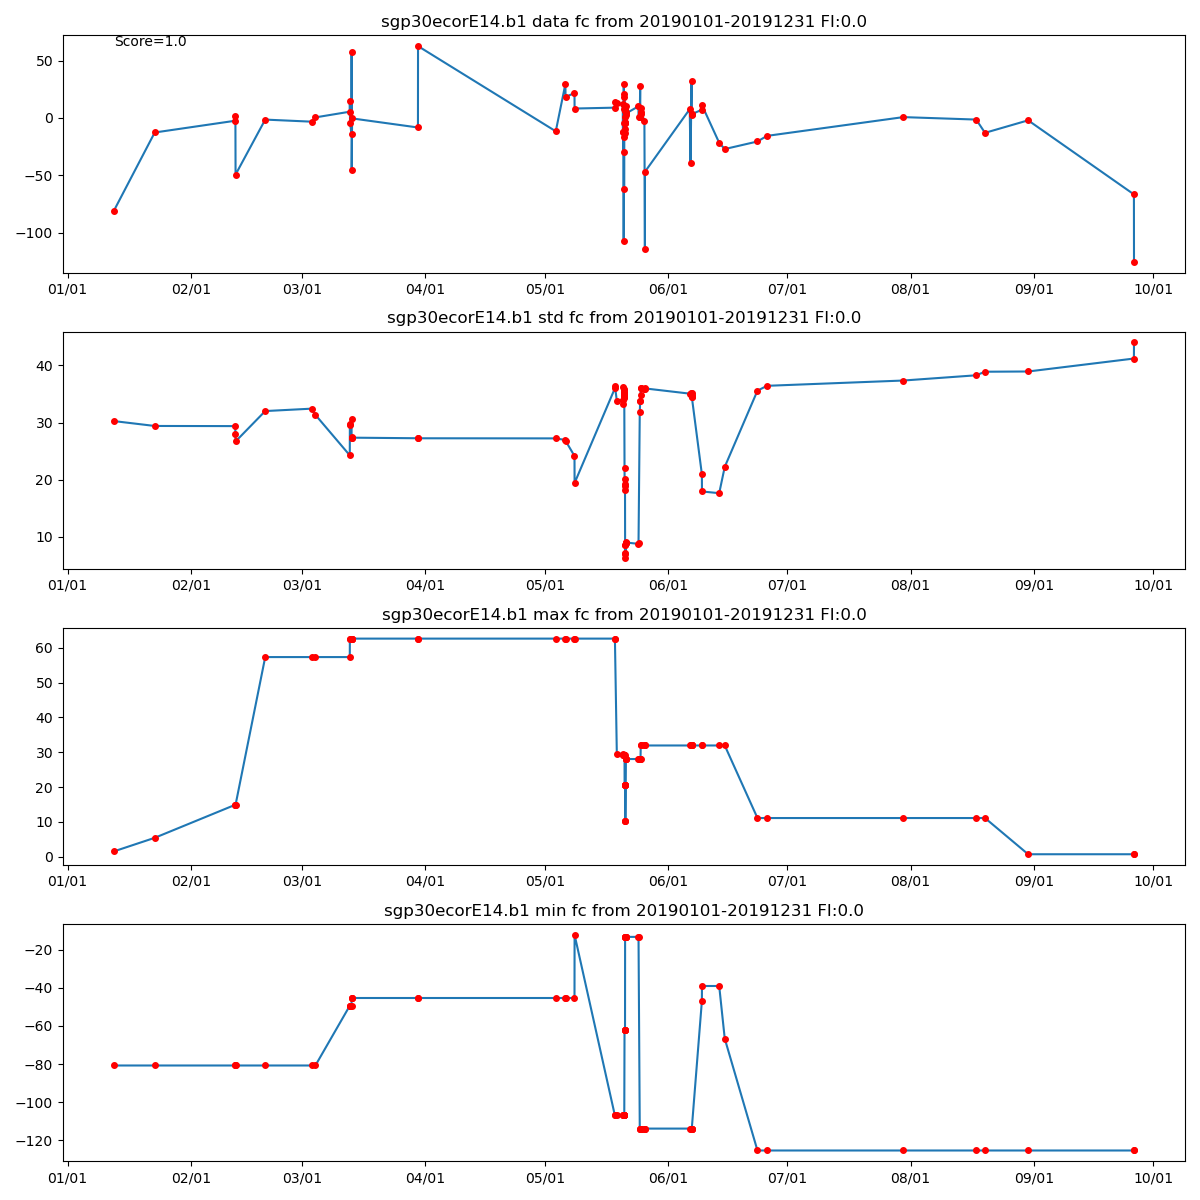
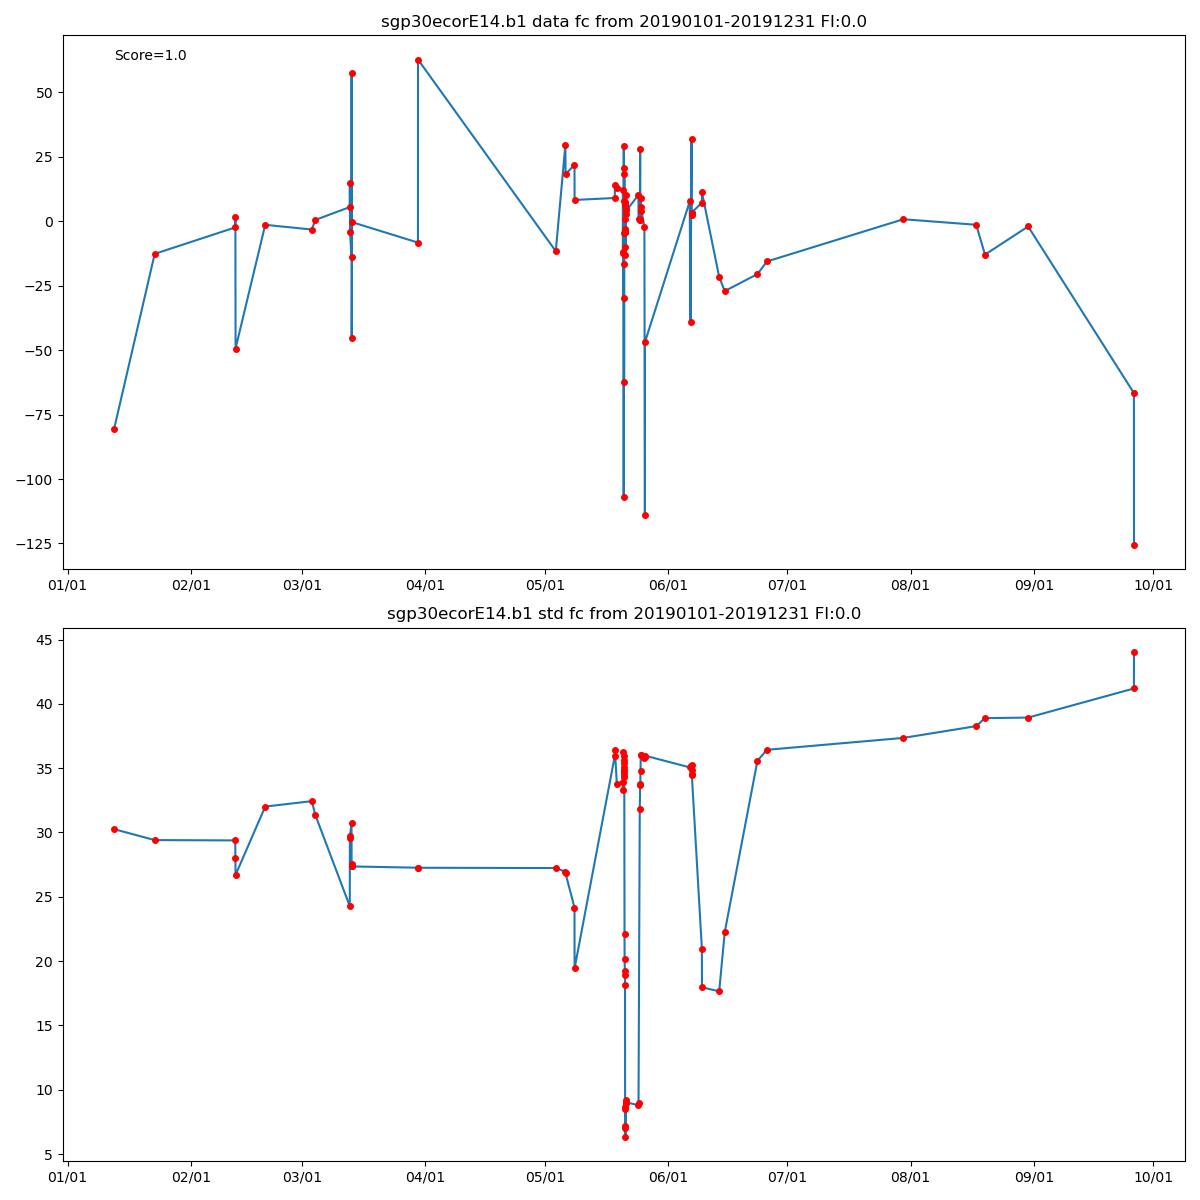
ENH: updates

diff --git a/dqr_training/dqr_ml.py b/dqr_training/dqr_ml.py
@@ -157,8 +157,9 @@ def getTrainingSet(ds, varname, sdate, edate, visualize):
         train_max = df.rolling(period, min_periods=minp, center=True).max()
 
     df['std'] = train_std
-    df['min'] = train_min
-    df['max'] = train_max
+    if min_max == 1:
+        df['min'] = train_min
+        df['max'] = train_max
     #train=[]
     #if (min_max == 0):
     #    train = np.vstack((np.transpose(train_data), np.transpose(train_std)))
